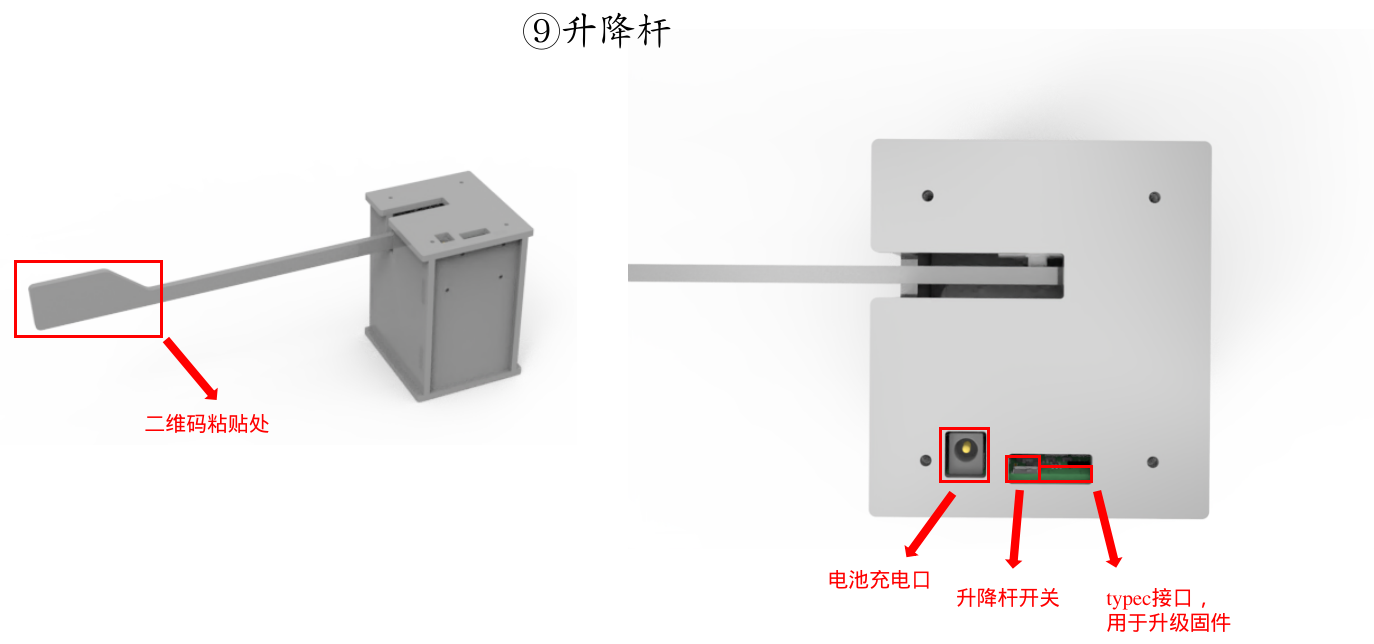
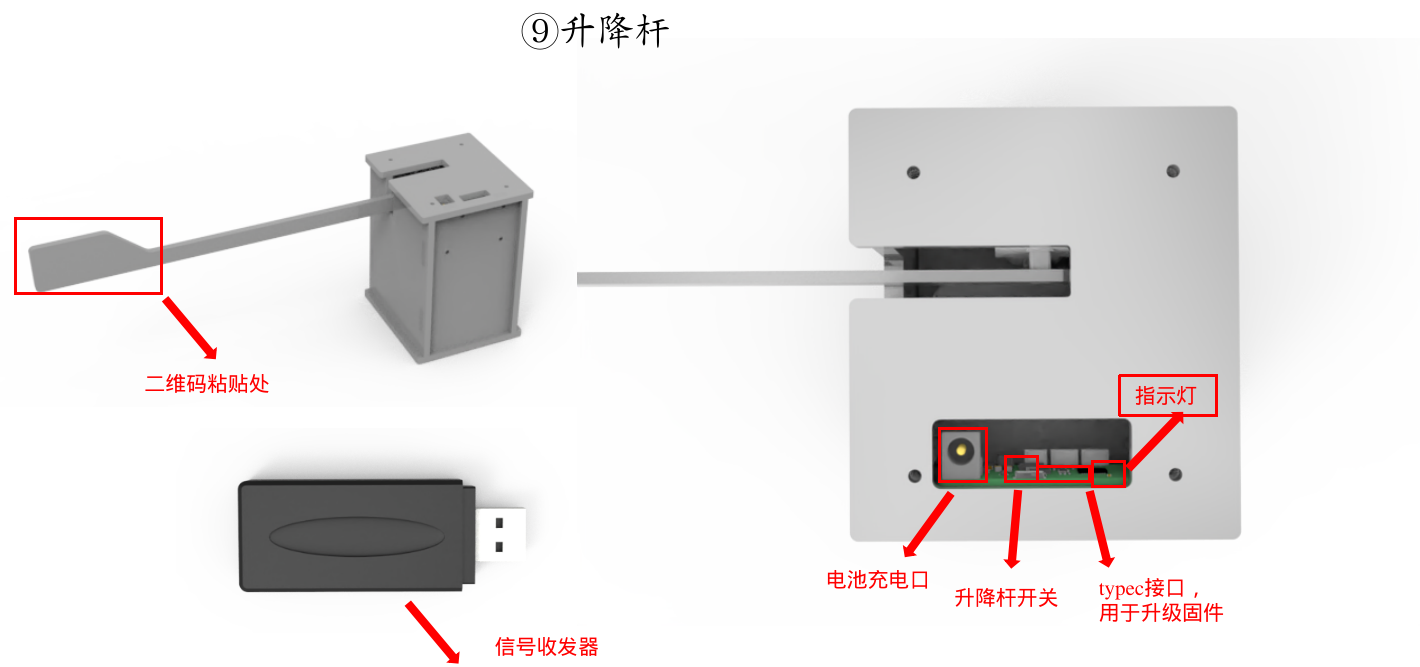
update lifter

Changed region(s): [[0.0, 0.1553, 0.8865, 0.9938], [0.3668, 0.0, 0.4891, 0.0932], [0.6725, 0.2795, 0.7031, 0.3106]]

diff --git a/README.md b/README.md
@@ -64,11 +64,11 @@ Version: 1.0.0
 	</tr>
     	<tr>
 		<td rowspan="3">负载</td>
-            <td>差速/履带模式（1kg）</td>
+            <td>四轮差速（1kg）</td>
             <tr>
 				<td>阿克曼模式（4kg）</td>
 			</tr>
-    		<tr>
+        	<tr>
                 <td>麦轮模式（4kg）</td>
     		</tr>
 	</tr>
@@ -176,9 +176,6 @@ Version: 1.0.0
         <td>蓝牙/极限距离10m</td>
 	</tr>
 </table>
-
-
-
 
 
 
@@ -985,7 +982,7 @@ roslaunch limo_bringup limo_gmapping.launch
 
 构建完地图之后，需要运行以下命令，把地图保存到指定目录：
 
-1、切换到需要保存地图的目录下，这里把地图保存到/agilex_ws/limo_bringup/maps，在终端中输入命令：
+1、切换到需要保存地图的目录下，这里把地图保存到~/agilex_ws/src/limo_ros/limo_bringup/maps/，在终端中输入命令：
 
 ```
 cd ~/agilex_ws/src/limo_ros/limo_bringup/maps/
@@ -1114,14 +1111,14 @@ roslaunch limo_bringup limo_navigation_diff.launch
 注：如果是阿克曼运动模式，请运行
 
 ```
-roslaunch limo_bringup limo_navigation_ackeman.launch
+roslaunch limo_bringup limo_navigation_ackerman.launch
 ```
 
 启动成功之后会打开rviz界面，如图 
 
 ![](./LIMO_image/navi_1.png)
 
-注：如需自定义打开的地图，请打开limo_navigation_diff.launch 文件修改参数, 请把map02修改为需要更换的地图名称。
+注：如需自定义打开的地图，请打开limo_navigation_diff.launch 文件修改参数, 文件所在目录为：~/agilex_ws/src/limo_ros/limo_bringup/launch。请把map02修改为需要更换的地图名称。
 
 ![](./LIMO_image/navi_diff.png)
 
@@ -1158,7 +1155,7 @@ roslaunch limo_bringup limo_navigation_diff.launch
 注：如果是阿克曼运动模式，请运行
 
 ```
-roslaunch limo_bringup limo_navigation_ackeman.launch
+roslaunch limo_bringup limo_navigation_ackerman.launch
 ```
 
 （3）启动路径记录功能，开启一个新的终端，在终端中输入命令：
@@ -1481,7 +1478,33 @@ rostopic echo /detect_word_reslut
 
 ![](./LIMO_image/traffic_light.png)
 
- 
+### 8.3 控制升降杆
+
+#### 8.3.1 功能简介
+
+通过ar-track-alvar功能包识别升降杆上面的二维码，判断出Limo与升降杆的位置距离，当小于0.3M时，Limo会发送一个消息到/chatter_updown话题中，从而控制升降杆。
+
+#### 8.1.2 运行功能
+
+注：在运行命令之前，请确保其他终端中的程序已经终止，终止命令为：Ctrl+c
+
+以ORBBEC®Dabai为例子，启动ORBBEC®Dabai深度相机，在终端中输入命令：
+
+```
+ roslaunch astra_camera dabai_u3.launch 
+```
+
+启动二维码标签识别功能，在终端中输入命令：
+
+```
+roslaunch detect_ros agx_ar_pose_dabai.launch 
+```
+
+![](./LIMO_image/lifter.png)
+
+当终端中出现pub num : 1时，升降杆将会抬起来，这时limo将有三秒钟的时间通过升降杆
+
+ 	
 
 ## 九、语音模块
 
@@ -1541,11 +1564,11 @@ rosrun voice voice_ctr_node.py
 
 ### 附录1、三视图
 
-<img src="LIMO_image/三视图尺寸-正视.svg" style="zoom:60%;" />
+<img src="LIMO_image/三视尺寸-正视.svg"  width="800"  height = "600" />
 
-<img src="LIMO_image/三视图尺寸-左视.svg" style="zoom:60%;" />
+<img src="LIMO_image/三视尺寸-侧视.svg"  width="800"  height = "600" />
 
-<img src="LIMO_image/三视图尺寸-俯视.svg" style="zoom:60%;" />
+<img src="LIMO_image/三视尺寸-俯视.svg"  width="800"  height = "600" />
 
 
 
@@ -2238,7 +2261,7 @@ rosrun rqt_tf_tree rqt_tf_tree
 
 #### 5.2 下载需要烧录的镜像
 
-这里以我司提供的官方镜像为例，使用百度云盘下载镜像，下载链接为：
+这里以我司提供的官方镜像为例，使用百度云盘下载镜像，下载链接为：https://pan.baidu.com/s/1MyyAR4y-Umyf_OwMk-rinA 提取码: 50d9 
 
 #### 5.3 软件使用说明
 

diff --git a/Limo user manual(EN).md b/Limo user manual(EN).md
@@ -963,7 +963,7 @@ At this time, you can adjust the handle to remote control mode to control limo t
 
 After building the map, you need to run the following command to save the map to the specified directory:
 
-1. Switch to the directory where you need to save the map, save the map to /agilex_ws/limo_bringup/maps, and enter the command in the terminal:
+1. Switch to the directory where you need to save the map, save the map to ~/agilex_ws/src/limo_ros/limo_bringup/maps/, and enter the command in the terminal:
 
 ```
 cd ~/agilex_ws/src/limo_ros/limo_bringup/maps/
@@ -1094,7 +1094,7 @@ roslaunch limo_bringup limo_navigation_diff.launch
 **Note:** If it is Ackermann motion mode, please run
 
 ```
-roslaunch limo_bringup limo_navigation_ackeman.launch
+roslaunch limo_bringup limo_navigation_ackerman.launch
 ```
 
 After launching successfully, the rviz interface will be opened, as shown in the figure:
@@ -1138,7 +1138,7 @@ roslaunch limo_bringup limo_navigation_diff.launch
 **Note:** If it is Ackermann motion mode, please run
 
 ```
-roslaunch limo_bringup limo_navigation_ackeman.launch
+roslaunch limo_bringup limo_navigation_ackerman.launch
 ```
 
 （3）Launch the path recording function, open a new terminal, and enter the command in the terminal:
@@ -1461,7 +1461,31 @@ Launch the traffic light recognition function:
 
 ![](./LIMO_image_EN/traffic_light.png)
 
- 
+### 8.3  Lifting barrier control
+
+#### 8.3.1 Function introduction
+
+LIMO can figure out the distance from the lifting barrier by detecting the QR code on it. When the distance is less than 0.3m，LIMO will send a message to the topic **/chatter_updown** to control the lifting barrier up and down.
+
+#### 8.1.2 Run function
+
+Note：Use Ctrl+C command to end all the processes before running the below commands.
+
+Take ORBBEC®Dabai as an example. Start realsense RGBD camera. Terminal command is：
+
+```
+ roslaunch astra_camera dabai_u3.launch 
+```
+
+Start the detection function of QR code, the command is：
+
+```
+roslaunch detect_ros agx_ar_pose_dabai.launch 
+```
+
+![](./LIMO_image_EN/lifter.png)
+
+When **pub num : 1** shown in the Terminal，the lifting barrier will be up . Then the LIMO will have three seconds to pass through the lifting barrier.  
 
 ## 9 Voice module
 

diff --git a/Limo user manual(CN).md b/Limo user manual(CN).md
@@ -980,7 +980,7 @@ roslaunch limo_bringup limo_gmapping.launch
 
 构建完地图之后，需要运行以下命令，把地图保存到指定目录：
 
-1、切换到需要保存地图的目录下，这里把地图保存到/agilex_ws/limo_bringup/maps，在终端中输入命令：
+1、切换到需要保存地图的目录下，这里把地图保存到~/agilex_ws/src/limo_ros/limo_bringup/maps/，在终端中输入命令：
 
 ```
 cd ~/agilex_ws/src/limo_ros/limo_bringup/maps/
@@ -1109,7 +1109,7 @@ roslaunch limo_bringup limo_navigation_diff.launch
 注：如果是阿克曼运动模式，请运行
 
 ```
-roslaunch limo_bringup limo_navigation_ackeman.launch
+roslaunch limo_bringup limo_navigation_ackerman.launch
 ```
 
 启动成功之后会打开rviz界面，如图 
@@ -1153,7 +1153,7 @@ roslaunch limo_bringup limo_navigation_diff.launch
 注：如果是阿克曼运动模式，请运行
 
 ```
-roslaunch limo_bringup limo_navigation_ackeman.launch
+roslaunch limo_bringup limo_navigation_ackerman.launch
 ```
 
 （3）启动路径记录功能，开启一个新的终端，在终端中输入命令：
@@ -1476,7 +1476,33 @@ rostopic echo /detect_word_reslut
 
 ![](./LIMO_image/traffic_light.png)
 
- 
+### 8.3 控制升降杆
+
+#### 8.3.1 功能简介
+
+通过ar-track-alvar功能包识别升降杆上面的二维码，判断出Limo与升降杆的位置距离，当小于0.3M时，Limo会发送一个消息到/chatter_updown话题中，从而控制升降杆。
+
+#### 8.1.2 运行功能
+
+注：在运行命令之前，请确保其他终端中的程序已经终止，终止命令为：Ctrl+c
+
+以ORBBEC®Dabai为例子，启动ORBBEC®Dabai深度相机，在终端中输入命令：
+
+```
+ roslaunch astra_camera dabai_u3.launch 
+```
+
+启动二维码标签识别功能，在终端中输入命令：
+
+```
+roslaunch detect_ros agx_ar_pose_dabai.launch 
+```
+
+![](./LIMO_image/lifter.png)
+
+当终端中出现pub num : 1时，升降杆将会抬起来，这时limo将有三秒钟的时间通过升降杆
+
+ 	
 
 ## 九、语音模块
 
